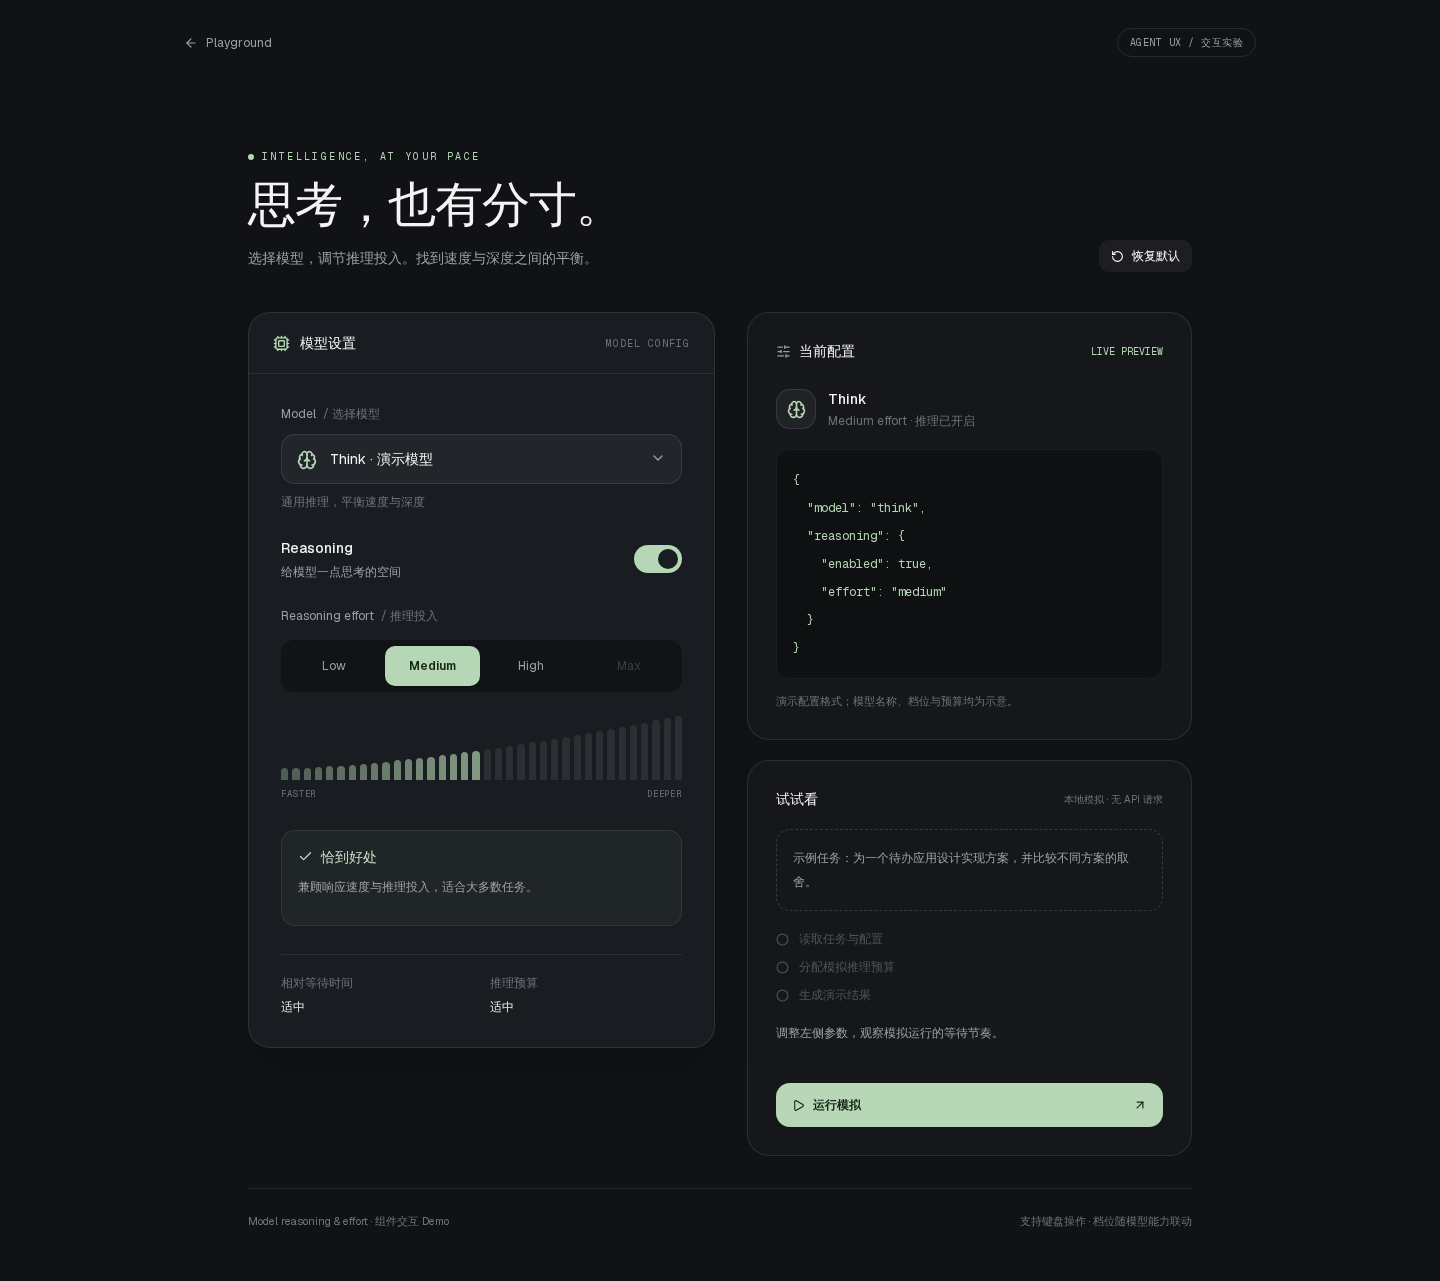
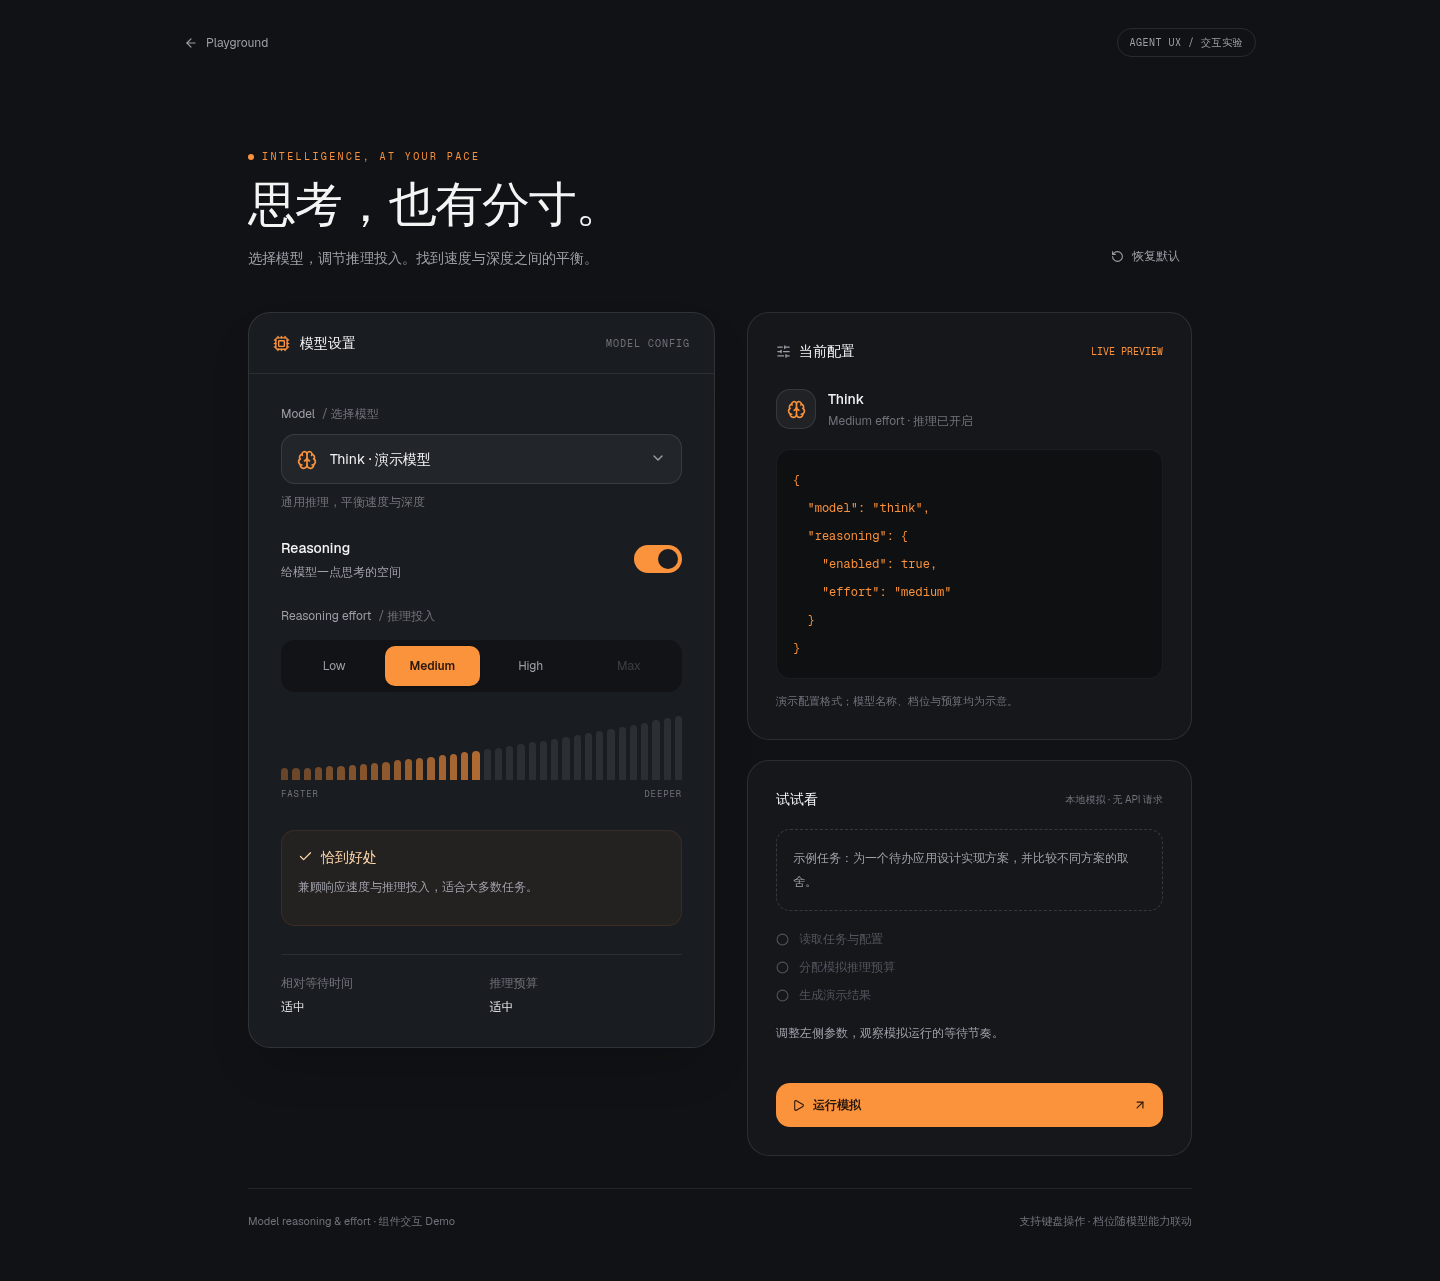
agent: 帮我给这个项目下增加一个最近很火的 model reasoning 以及 eff…
ThreadChat-Run: run-979a2bfc-d137-4117-84d6-7ade63596d2b

diff --git a/app/model-reasoning/page.tsx b/app/model-reasoning/page.tsx
@@ -32,30 +32,30 @@ export default function ModelReasoningPage() {
   }
 
   return (
-    <main lang="zh-CN" className="min-h-svh bg-[#101215] text-zinc-100 selection:bg-[#b6d7b5]/30">
+    <main lang="zh-CN" className="min-h-svh bg-[#101215] text-zinc-100 selection:bg-[#fb923c]/30">
       <nav className="mx-auto flex max-w-6xl items-center justify-between px-6 py-7 sm:px-10">
         <Link href="/" className="flex items-center gap-2 text-xs text-zinc-400 transition hover:text-white"><ArrowLeft size={14} /> Playground</Link>
         <span className="rounded-full border border-white/10 px-3 py-1.5 font-mono text-[10px] tracking-wider text-zinc-400">AGENT UX / 交互实验</span>
       </nav>
       <div className="mx-auto max-w-5xl px-6 pb-12 pt-10 sm:px-10 sm:pt-16">
         <header className="mb-10 flex flex-wrap items-end justify-between gap-6">
-          <div><p className="mb-4 flex items-center gap-2 font-mono text-[10px] tracking-[0.24em] text-[#b6d7b5]"><span className="size-1.5 rounded-full bg-[#b6d7b5]" /> INTELLIGENCE, AT YOUR PACE</p><h1 className="text-4xl font-medium tracking-tight sm:text-5xl">思考，也有分寸。</h1><p className="mt-4 text-sm leading-7 text-zinc-400">选择模型，调节推理投入。找到速度与深度之间的平衡。</p></div>
-          <button type="button" onClick={reset} className="flex items-center gap-2 rounded-lg px-3 py-2 text-xs text-zinc-400 hover:bg-white/5 hover:text-white focus-visible:outline-2 focus-visible:outline-[#b6d7b5]"><RotateCcw size={13} /> 恢复默认</button>
+          <div><p className="mb-4 flex items-center gap-2 font-mono text-[10px] tracking-[0.24em] text-[#fb923c]"><span className="size-1.5 rounded-full bg-[#fb923c]" /> INTELLIGENCE, AT YOUR PACE</p><h1 className="text-4xl font-medium tracking-tight sm:text-5xl">思考，也有分寸。</h1><p className="mt-4 text-sm leading-7 text-zinc-400">选择模型，调节推理投入。找到速度与深度之间的平衡。</p></div>
+          <button type="button" onClick={reset} className="flex items-center gap-2 rounded-lg px-3 py-2 text-xs text-zinc-400 hover:bg-white/5 hover:text-white focus-visible:outline-2 focus-visible:outline-[#fb923c]"><RotateCcw size={13} /> 恢复默认</button>
         </header>
         <div className="grid items-start gap-6 md:grid-cols-[1.05fr_1fr] md:gap-8">
           <ReasoningPanel value={config} onChange={(next) => { setConfig(next); setRun(null); setCancelled(false); }} disabled={running} />
           <div className="space-y-5">
             <section className="rounded-3xl border border-white/10 bg-[#15171b] p-6 sm:p-7" aria-label="配置预览">
-              <div className="flex items-center justify-between"><h2 className="flex items-center gap-2 text-sm"><SlidersHorizontal size={15} className="text-zinc-400" /> 当前配置</h2><span className="font-mono text-[10px] text-[#b6d7b5]">LIVE PREVIEW</span></div>
-              <div className="mb-5 mt-7 flex items-center gap-3"><span className="flex size-10 items-center justify-center rounded-xl border border-white/10 bg-white/5"><model.icon size={19} className="text-[#b6d7b5]" /></span><div><p className="text-sm font-medium">{model.name}</p><p className="mt-1 text-xs text-zinc-500">{config.reasoning ? `${efforts[level].label} effort · 推理已开启` : "推理已关闭"}</p></div></div>
-              <pre aria-label="当前配置 JSON" className="overflow-x-auto rounded-xl border border-white/5 bg-[#0e1012] p-4 font-mono text-xs leading-7 text-[#b6d7b5]">{JSON.stringify({ model: config.model, reasoning: config.reasoning ? { enabled: true, effort: config.effort } : { enabled: false } }, null, 2)}</pre>
+              <div className="flex items-center justify-between"><h2 className="flex items-center gap-2 text-sm"><SlidersHorizontal size={15} className="text-zinc-400" /> 当前配置</h2><span className="font-mono text-[10px] text-[#fb923c]">LIVE PREVIEW</span></div>
+              <div className="mb-5 mt-7 flex items-center gap-3"><span className="flex size-10 items-center justify-center rounded-xl border border-white/10 bg-white/5"><model.icon size={19} className="text-[#fb923c]" /></span><div><p className="text-sm font-medium">{model.name}</p><p className="mt-1 text-xs text-zinc-500">{config.reasoning ? `${efforts[level].label} effort · 推理已开启` : "推理已关闭"}</p></div></div>
+              <pre aria-label="当前配置 JSON" className="overflow-x-auto rounded-xl border border-white/5 bg-[#0e1012] p-4 font-mono text-xs leading-7 text-[#fb923c]">{JSON.stringify({ model: config.model, reasoning: config.reasoning ? { enabled: true, effort: config.effort } : { enabled: false } }, null, 2)}</pre>
               <p className="mt-3 text-[11px] leading-5 text-zinc-500">演示配置格式；模型名称、档位与预算均为示意。</p>
             </section>
             <section className="rounded-3xl border border-white/10 bg-[#15171b] p-6 sm:p-7" aria-label="模拟运行">
               <div className="mb-5 flex items-center justify-between"><h2 className="text-sm">试试看</h2><span className="text-[10px] text-zinc-500">本地模拟 · 无 API 请求</span></div>
               <p className="rounded-xl border border-dashed border-white/15 p-4 text-xs leading-6 text-zinc-400">示例任务：为一个待办应用设计实现方案，并比较不同方案的取舍。</p>
               <div className="my-5 space-y-3" aria-hidden>
-                {steps.map((step, index) => <div key={step} className={`flex items-center gap-2.5 text-xs ${run && run.step >= index ? "text-zinc-200" : "text-zinc-600"}`}>{run && run.step > index ? <Check size={13} className="text-[#b6d7b5]" /> : run?.step === index ? <Loader2 size={13} className="animate-spin text-[#b6d7b5] motion-reduce:animate-none" /> : <Circle size={13} />}{step}</div>)}
+                {steps.map((step, index) => <div key={step} className={`flex items-center gap-2.5 text-xs ${run && run.step >= index ? "text-zinc-200" : "text-zinc-600"}`}>{run && run.step > index ? <Check size={13} className="text-[#fb923c]" /> : run?.step === index ? <Loader2 size={13} className="animate-spin text-[#fb923c] motion-reduce:animate-none" /> : <Circle size={13} />}{step}</div>)}
               </div>
               <p role="status" className="mb-5 min-h-10 text-xs leading-5 text-zinc-400">{cancelled ? "模拟已停止，可以调整配置后重新运行。" : run ? run.step === steps.length ? `模拟完成：${models.find((item) => item.id === run.config.model)!.name} / ${run.config.reasoning ? run.config.effort : "推理关闭"}。已演示配置到完成的状态切换，未生成真实回答。` : `正在${steps[run.step]}…` : "调整左侧参数，观察模拟运行的等待节奏。"}</p>
               <button type="button" onClick={() => {
@@ -67,7 +67,7 @@ export default function ModelReasoningPage() {
                   setCancelled(false);
                   setRun({ config: { ...config }, step: 0 });
                 }
-              }} className="flex w-full items-center justify-center gap-2 rounded-xl bg-[#b6d7b5] px-4 py-3.5 text-xs font-semibold text-[#172418] transition hover:bg-[#c7e4c6] focus-visible:outline-2 focus-visible:outline-offset-4 focus-visible:outline-[#b6d7b5]">{running ? <Square size={13} /> : <Play size={13} />}{running ? "停止模拟" : "运行模拟"}{!running && <ArrowUpRight size={14} className="ml-auto" />}</button>
+              }} className="flex w-full items-center justify-center gap-2 rounded-xl bg-[#fb923c] px-4 py-3.5 text-xs font-semibold text-[#2b180d] transition hover:bg-[#fdba74] focus-visible:outline-2 focus-visible:outline-offset-4 focus-visible:outline-[#fb923c]">{running ? <Square size={13} /> : <Play size={13} />}{running ? "停止模拟" : "运行模拟"}{!running && <ArrowUpRight size={14} className="ml-auto" />}</button>
             </section>
           </div>
         </div>

diff --git a/app/model-reasoning/ReasoningPanel.tsx b/app/model-reasoning/ReasoningPanel.tsx
@@ -32,18 +32,18 @@ export function ReasoningPanel({ value, onChange, disabled = false }: {
   return (
     <section aria-label="模型推理设置" className="rounded-3xl border border-white/10 bg-[#191c20] shadow-2xl shadow-black/20">
       <div className="flex items-center justify-between border-b border-white/8 px-6 py-5">
-        <span className="flex items-center gap-2.5 text-sm font-medium"><Cpu size={17} className="text-[#b6d7b5]" /> 模型设置</span>
+        <span className="flex items-center gap-2.5 text-sm font-medium"><Cpu size={17} className="text-[#fb923c]" /> 模型设置</span>
         <span className="font-mono text-[10px] tracking-widest text-zinc-500">MODEL CONFIG</span>
       </div>
       <div className="space-y-7 p-6 sm:p-8">
         <div>
           <label htmlFor={`${id}-model`} className="mb-3 block text-xs text-zinc-400">Model <span className="ml-1 text-zinc-500">/ 选择模型</span></label>
           <div className="relative">
-            <model.icon aria-hidden size={20} className="pointer-events-none absolute left-4 top-4 text-[#b6d7b5]" />
+            <model.icon aria-hidden size={20} className="pointer-events-none absolute left-4 top-4 text-[#fb923c]" />
             <select id={`${id}-model`} value={value.model} disabled={disabled} onChange={(event) => {
               const next = models.find((item) => item.id === event.target.value)!;
               onChange({ ...value, model: next.id, effort: next.levels.includes(value.effort) ? value.effort : next.levels[next.levels.length - 1] });
-            }} className="w-full appearance-none rounded-xl border border-white/10 bg-[#22262b] py-3.5 pl-12 pr-10 text-sm outline-none focus-visible:ring-2 focus-visible:ring-[#b6d7b5] disabled:opacity-50">
+            }} className="w-full appearance-none rounded-xl border border-white/10 bg-[#22262b] py-3.5 pl-12 pr-10 text-sm outline-none focus-visible:ring-2 focus-visible:ring-[#fb923c] disabled:opacity-50">
               {models.map((item) => <option key={item.id} value={item.id}>{item.name} · 演示模型</option>)}
             </select>
             <ChevronDown aria-hidden size={16} className="pointer-events-none absolute right-4 top-4 text-zinc-400" />
@@ -53,7 +53,7 @@ export function ReasoningPanel({ value, onChange, disabled = false }: {
 
         <div className="flex items-center justify-between gap-4">
           <div><h2 id={`${id}-reasoning`} className="text-sm font-medium">Reasoning</h2><p className="mt-1.5 text-xs text-zinc-400">给模型一点思考的空间</p></div>
-          <button type="button" role="switch" aria-checked={value.reasoning} aria-labelledby={`${id}-reasoning`} disabled={disabled} onClick={() => onChange({ ...value, reasoning: !value.reasoning })} className={`h-7 w-12 shrink-0 rounded-full p-1 outline-none transition-colors focus-visible:ring-2 focus-visible:ring-white focus-visible:ring-offset-4 focus-visible:ring-offset-[#191c20] disabled:opacity-50 ${value.reasoning ? "bg-[#b6d7b5]" : "bg-zinc-600"}`}>
+          <button type="button" role="switch" aria-checked={value.reasoning} aria-labelledby={`${id}-reasoning`} disabled={disabled} onClick={() => onChange({ ...value, reasoning: !value.reasoning })} className={`h-7 w-12 shrink-0 rounded-full p-1 outline-none transition-colors focus-visible:ring-2 focus-visible:ring-white focus-visible:ring-offset-4 focus-visible:ring-offset-[#191c20] disabled:opacity-50 ${value.reasoning ? "bg-[#fb923c]" : "bg-zinc-600"}`}>
             <span className={`block size-5 rounded-full bg-[#191c20] transition-transform motion-reduce:transition-none ${value.reasoning ? "translate-x-5" : "translate-x-0"}`} />
           </button>
         </div>
@@ -62,20 +62,20 @@ export function ReasoningPanel({ value, onChange, disabled = false }: {
           <legend className="mb-4 text-xs text-zinc-400">Reasoning effort <span className="ml-1 text-zinc-500">/ 推理投入</span></legend>
           <div className="grid grid-cols-4 gap-1 rounded-xl bg-[#111316] p-1.5">
             {efforts.map((item) => (
-              <label key={item.id} className={`relative rounded-lg text-center text-xs transition-colors has-[:focus-visible]:ring-2 has-[:focus-visible]:ring-[#b6d7b5] ${!model.levels.includes(item.id) ? "cursor-not-allowed opacity-30" : "cursor-pointer"} ${value.effort === item.id ? "bg-[#b6d7b5] font-semibold text-[#172418] shadow-sm" : "text-zinc-400 hover:bg-white/5"}`}>
+              <label key={item.id} className={`relative rounded-lg text-center text-xs transition-colors has-[:focus-visible]:ring-2 has-[:focus-visible]:ring-[#fb923c] ${!model.levels.includes(item.id) ? "cursor-not-allowed opacity-30" : "cursor-pointer"} ${value.effort === item.id ? "bg-[#fb923c] font-semibold text-[#2b180d] shadow-sm" : "text-zinc-400 hover:bg-white/5"}`}>
                 <input type="radio" name={`${id}-effort`} value={item.id} checked={value.effort === item.id} disabled={!model.levels.includes(item.id)} onChange={() => onChange({ ...value, effort: item.id })} className="sr-only" />
                 <span className="block py-3">{item.label}</span>
               </label>
             ))}
           </div>
           <div aria-hidden className="mt-6 flex h-16 items-end justify-between gap-1">
-            {Array.from({ length: 36 }, (_, i) => <span key={i} className={`flex-1 rounded-t-sm transition-all duration-500 motion-reduce:transition-none ${i < (level + 1) * 9 && value.reasoning ? "bg-[#b6d7b5]" : "bg-white/8"}`} style={{ height: `${18 + Math.pow(i / 35, 1.5) * 82}%`, opacity: i < (level + 1) * 9 && value.reasoning ? 0.35 + (i / 35) * 0.65 : 1 }} />)}
+            {Array.from({ length: 36 }, (_, i) => <span key={i} className={`flex-1 rounded-t-sm transition-all duration-500 motion-reduce:transition-none ${i < (level + 1) * 9 && value.reasoning ? "bg-[#fb923c]" : "bg-white/8"}`} style={{ height: `${18 + Math.pow(i / 35, 1.5) * 82}%`, opacity: i < (level + 1) * 9 && value.reasoning ? 0.35 + (i / 35) * 0.65 : 1 }} />)}
           </div>
           <div className="mt-2 flex justify-between font-mono text-[9px] uppercase tracking-widest text-zinc-500"><span>Faster</span><span>Deeper</span></div>
         </fieldset>
 
-        <div id={`${id}-hint`} aria-live="polite" className="min-h-24 rounded-xl border border-[#b6d7b5]/10 bg-[#b6d7b5]/5 p-4">
-          <div className="flex items-center gap-2 text-sm text-[#c8dfc7]"><Check size={15} />{value.reasoning ? effort.title : "直接回答"}</div>
+        <div id={`${id}-hint`} aria-live="polite" className="min-h-24 rounded-xl border border-[#fb923c]/10 bg-[#fb923c]/5 p-4">
+          <div className="flex items-center gap-2 text-sm text-[#fed7aa]"><Check size={15} />{value.reasoning ? effort.title : "直接回答"}</div>
           <p className="mt-2 text-xs leading-6 text-zinc-400">{value.reasoning ? effort.description : "已关闭推理，保留当前档位，重新开启即可继续使用。"}</p>
         </div>
         <div className="grid grid-cols-2 gap-4 border-t border-white/8 pt-5 text-xs">

diff --git a/app/_homepage/thumbs/model-reasoning.tsx b/app/_homepage/thumbs/model-reasoning.tsx
@@ -1,13 +1,13 @@
 export function ModelReasoningThumb() {
   return (
-    <div className="relative flex h-full w-full items-center justify-center overflow-hidden" style={{ background: "radial-gradient(ellipse at 50% 80%, #293b30, #111417 80%)" }}>
+    <div className="relative flex h-full w-full items-center justify-center overflow-hidden" style={{ background: "radial-gradient(ellipse at 50% 80%, #482b1a, #111417 80%)" }}>
       <div style={{ width: 184, padding: 16, border: "1px solid #ffffff18", borderRadius: 16, background: "#1b1f23", boxShadow: "0 16px 35px #0005" }}>
-        <div style={{ display: "flex", justifyContent: "space-between", alignItems: "center", color: "#e4e7e4", fontSize: 11 }}><span>Reasoning</span><span style={{ width: 25, height: 14, padding: 3, borderRadius: 20, background: "#b6d7b5" }}><span style={{ display: "block", marginLeft: 11, width: 8, height: 8, borderRadius: 20, background: "#1b1f23" }} /></span></div>
+        <div style={{ display: "flex", justifyContent: "space-between", alignItems: "center", color: "#f0e6df", fontSize: 11 }}><span>Reasoning</span><span style={{ width: 25, height: 14, padding: 3, borderRadius: 20, background: "#fb923c" }}><span style={{ display: "block", marginLeft: 11, width: 8, height: 8, borderRadius: 20, background: "#1b1f23" }} /></span></div>
         <div style={{ display: "flex", marginTop: 16, padding: 3, borderRadius: 7, background: "#111417" }}>
-          {["Low", "Med", "High", "Max"].map((label, i) => <span key={label} style={{ flex: 1, padding: "5px 0", borderRadius: 5, textAlign: "center", fontSize: 9, background: i === 2 ? "#b6d7b5" : "transparent", color: i === 2 ? "#172418" : "#858b90" }}>{label}</span>)}
+          {["Low", "Med", "High", "Max"].map((label, i) => <span key={label} style={{ flex: 1, padding: "5px 0", borderRadius: 5, textAlign: "center", fontSize: 9, background: i === 2 ? "#fb923c" : "transparent", color: i === 2 ? "#2b180d" : "#858b90" }}>{label}</span>)}
         </div>
         <div style={{ display: "flex", alignItems: "end", height: 46, gap: 3, marginTop: 12 }}>
-          {Array.from({ length: 24 }, (_, i) => <span key={i} style={{ flex: 1, height: 8 + i * 1.6, borderRadius: "2px 2px 0 0", background: i < 18 ? "#b6d7b5" : "#ffffff12", opacity: i < 18 ? 0.35 + i / 36 : 1 }} />)}
+          {Array.from({ length: 24 }, (_, i) => <span key={i} style={{ flex: 1, height: 8 + i * 1.6, borderRadius: "2px 2px 0 0", background: i < 18 ? "#fb923c" : "#ffffff12", opacity: i < 18 ? 0.35 + i / 36 : 1 }} />)}
         </div>
       </div>
     </div>

diff --git a/app/model-reasoning/README.md b/app/model-reasoning/README.md
@@ -19,7 +19,7 @@
 4. 用 Tab、方向键、空格操作，检查移动端无横向溢出。
 5. 首页 Agent UX/UI 分类能打开新页面。
 
-## 本次验收记录
+## 初版验收记录
 
 使用临时 `pnpm@10.30.3` 执行命令，未修改依赖声明或锁文件：
 
@@ -29,6 +29,13 @@
 - `pnpm lint`：未通过，仓库既有文件合计 56 errors / 15 warnings；本次改动文件无 lint 问题。
 - 临时 Playwright 脚本在 Chromium 验证上述 5 组交互，额外检查运行完成、运行时参数锁定、重置后无残留更新、无页面异常、375px 宽度无横向溢出，均通过。
 
-新增页面，无旧版对照图。以下为生产构建截图：
+页面采用暖橙色强调色（`#fb923c`），覆盖选中态、开关、推理投入图、状态图标与键盘焦点。首页缩略图同步使用橙色系。以下为当前配色的生产构建截图：
 
 [桌面截图](./screenshots/desktop.png) · [移动端截图](./screenshots/mobile.png)
+
+## 橙色配色验收
+
+- `pnpm build`（含 TypeScript 检查）及改动文件 ESLint 通过。
+- `pnpm lint` 仍报既有 56 errors / 15 warnings。
+- 使用 agent-browser 核对生产页面：按钮、开关计算色值为 `rgb(251, 146, 60)`；375px 视口无横向溢出，无页面错误；已更新桌面和移动端截图。
+- 仅调整配色，组件状态与交互逻辑保持不变。
